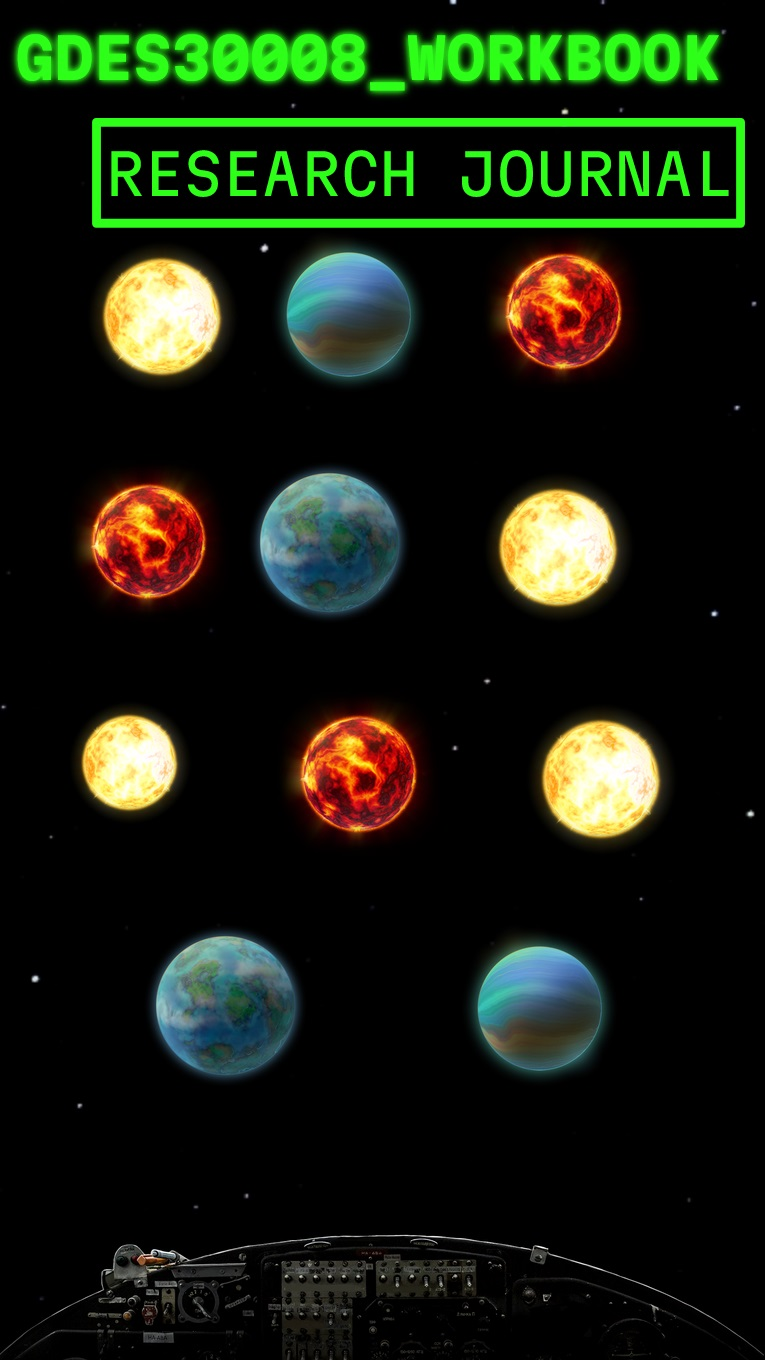
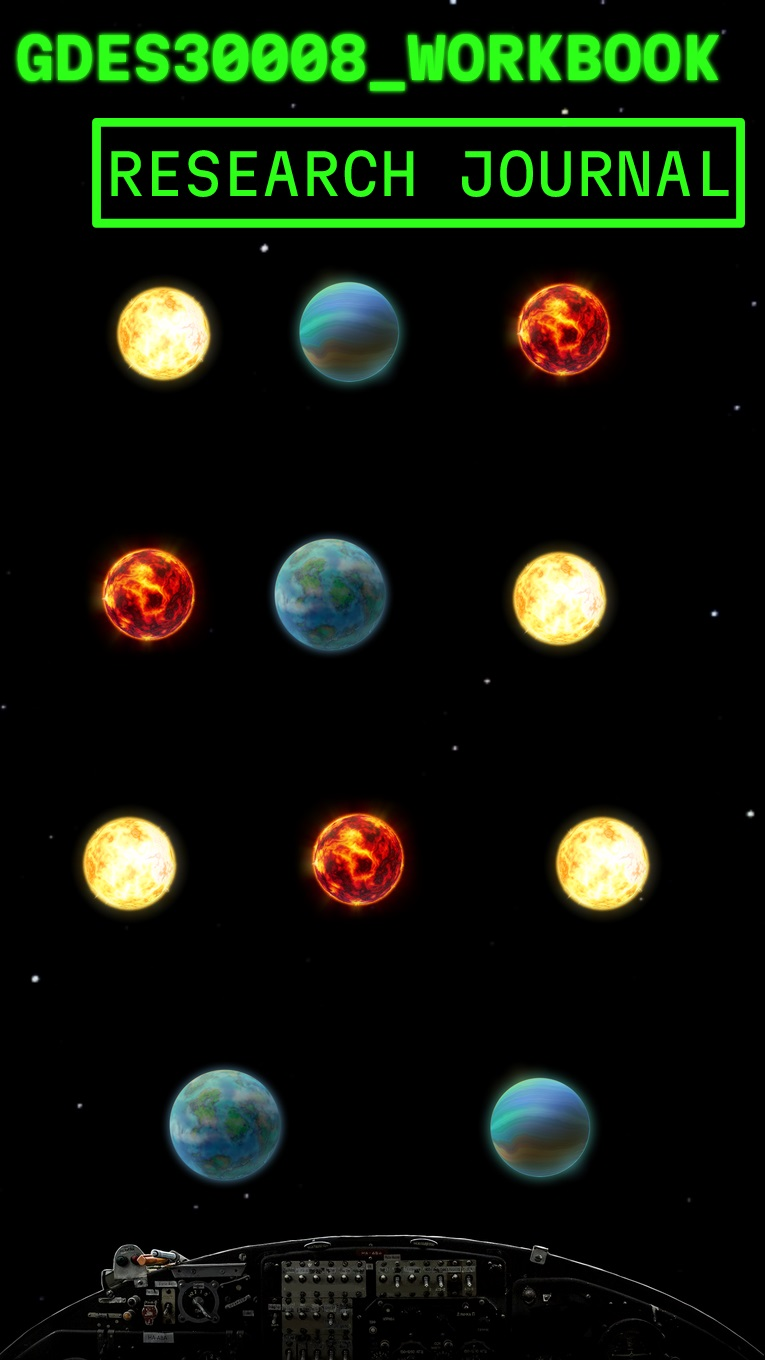
layout update

diff --git a/stylesheet-layout.css b/stylesheet-layout.css
@@ -2,21 +2,21 @@
 *,
 *::before,
 *::after {
-  box-sizing: border-box;
+	box-sizing: border-box;
 }
 
 * {
-  margin: 0;
+	margin: 0;
 }
 
 html,
 body {
-  height: 100%;
+	height: 100%;
 }
 
 body {
-  line-height: 1.5;
-  -webkit-font-smoothing: antialiased;
+	line-height: 1.5;
+	-webkit-font-smoothing: antialiased;
 }
 
 img,
@@ -24,15 +24,15 @@ picture,
 video,
 canvas,
 svg {
-  display: block;
-  max-width: 100%;
+	display: block;
+	max-width: 100%;
 }
 
 input,
 button,
 textarea,
 select {
-  font: inherit;
+	font: inherit;
 }
 
 p,
@@ -42,93 +42,97 @@ h3,
 h4,
 h5,
 h6 {
-  overflow-wrap: break-word;
+	overflow-wrap: break-word;
 }
 
 /* CODE START */
 
 .flex-row {
-  display: flex;
-  flex-wrap: wrap;
+	display: flex;
+	flex-wrap: wrap;
 }
 
 .flex-col {
-  flex: 50%;
-  width: 50%;
+	flex: 50%;
+	width: 50%;
 }
 
 /* MAIN PAGE */
 #wb-header-left {
-  flex: 70%;
-  width: 70%;
+	flex: 70%;
+	width: 70%;
 }
 
 #wb-header-right {
-  flex: 30%;
-  width: 30%;
+	flex: 30%;
+	width: 30%;
 }
 
 #cockpit {
-  position: fixed;
-  bottom: 0;
-  left: 50%;
-  transform: translateX(-50%);
+	position: fixed;
+	bottom: 0;
+	left: 50%;
+	transform: translateX(-50%);
 }
 
 #rj-link {
-  position: absolute;
-  right: 0;
+	position: absolute;
+	right: 0;
 }
 
 .grid {
-  display: grid;
-  grid-auto-rows: 12vh;
-  margin: 5vh;
+	display: grid;
+	grid-auto-rows: 12vh;
+	margin: 5vh;
 }
 
 .space-icon {
-  margin: auto;
+	margin: auto;
 }
 
 .tooltip {
-  width: fit-content;
-  margin: auto;
-  text-align: center;
-  z-index: 1;
+	width: fit-content;
+	margin: auto;
+	text-align: center;
+	z-index: 1;
 }
 
 .nav-button {
-  margin: 15px auto;
-  display: block;
-  width: fit-content;
+	margin: 15px auto;
+	display: block;
+	width: fit-content;
 }
 
 /* WORKBOOK PAGES */
 
 .wb .flex-col {
-  padding: 20px;
+	padding: 20px;
 }
 
 .wb img {
-  padding: 5px 0;
+	padding: 5px 0;
 }
 
 .right img {
-  display: inline;
+	display: inline;
 }
 
 /* FOR MOBILE SCREENS */
 
 @media (max-width: 768px) {
-  .flex-col,
-  #wb-header-left,
-  #wb-header-right {
-    flex: 100%;
-    width: 100%;
-  }
+	.flex-col,
+	#wb-header-left,
+	#wb-header-right {
+		flex: 100%;
+		width: 100%;
+	}
 
-  .rj-left,
-  .rj-right {
-    width: 100%;
-  }
+	.grid {
+		margin: 7.5vh 5vh 5vh;
+	}
+
+	.rj-left,
+	.rj-right {
+		width: 100%;
+	}
 }

diff --git a/stylesheet-appearance.css b/stylesheet-appearance.css
@@ -85,6 +85,7 @@ a:hover {
 
 .space-icon {
 	max-height: 100%;
+	vertical-align: middle;
 	transition: transform 0.3s ease-in-out;
 }
 
@@ -163,6 +164,10 @@ a:hover {
 @media (max-width: 600px) {
 	#cockpit {
 		width: 100vw;
+	}
+
+	.space-icon {
+		max-height: 80%;
 	}
 
 	/* tooltips are disabled for mobile views*/
